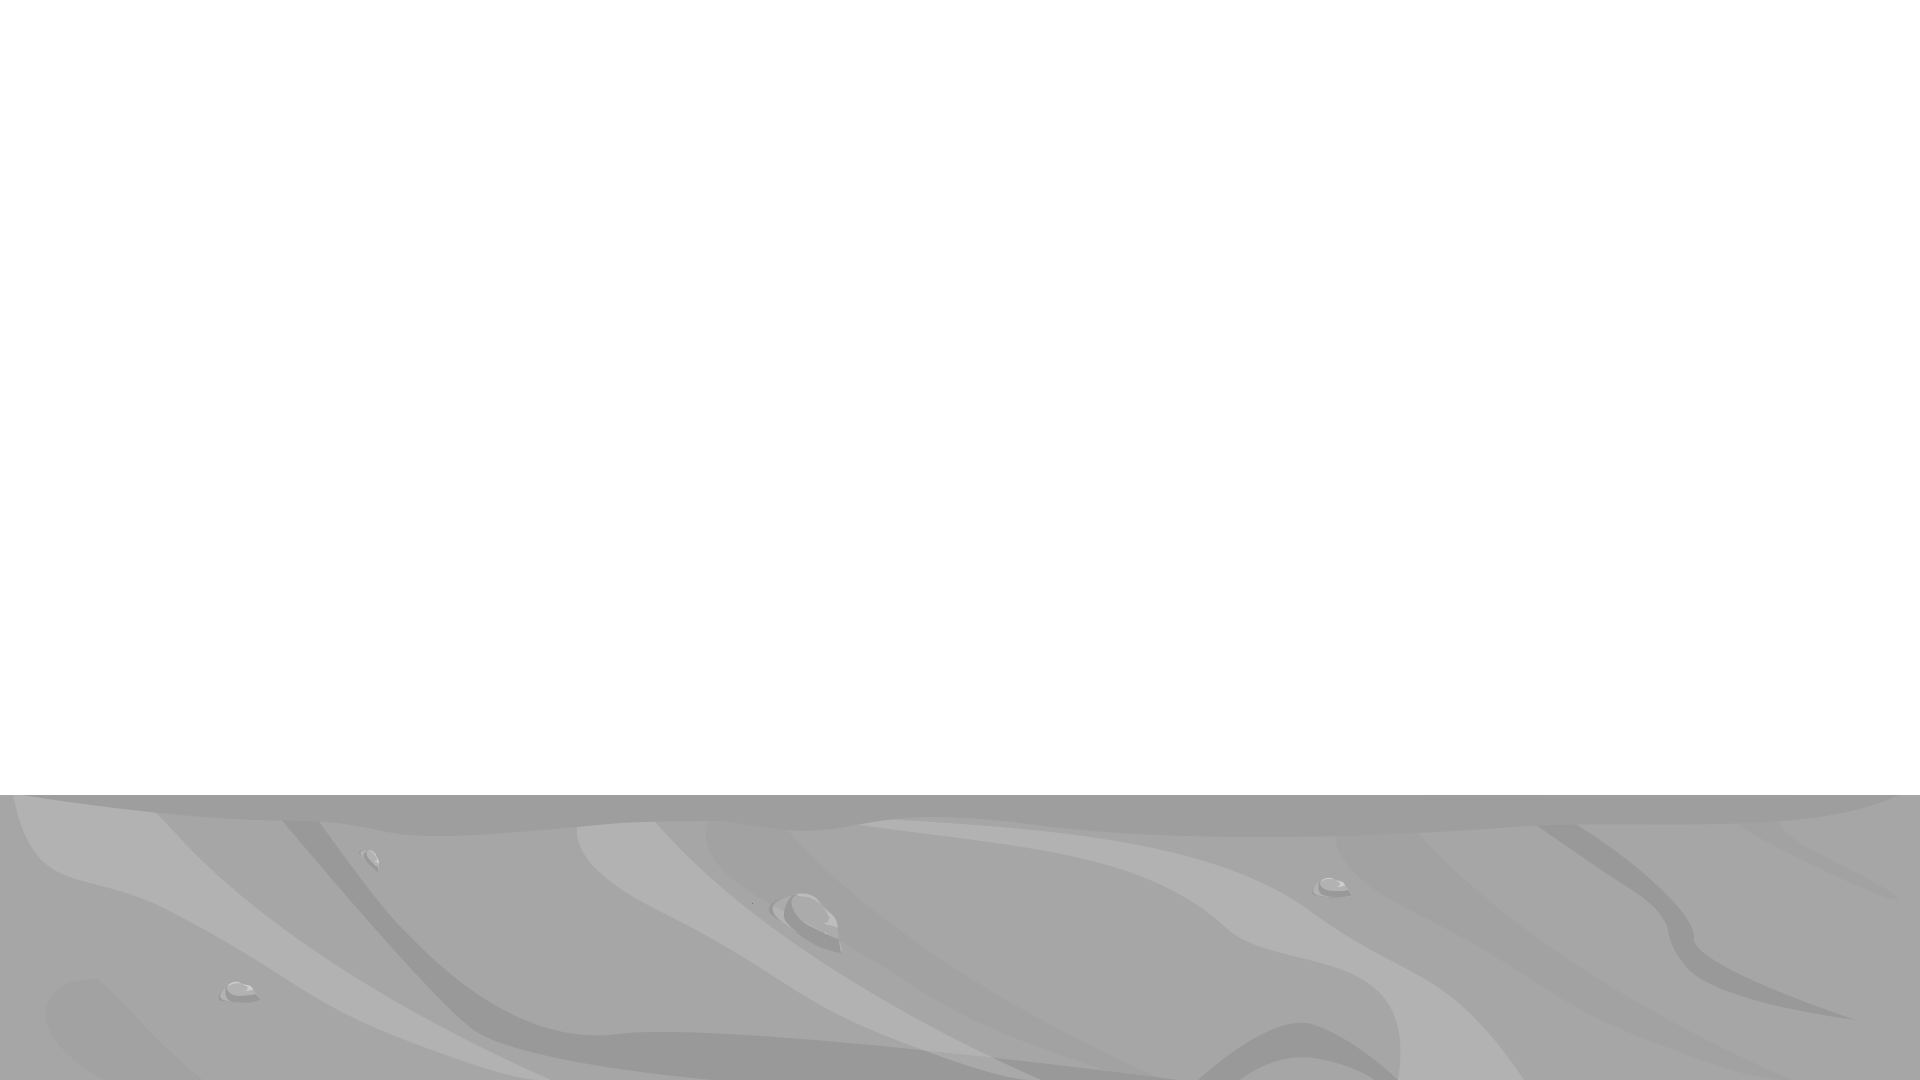
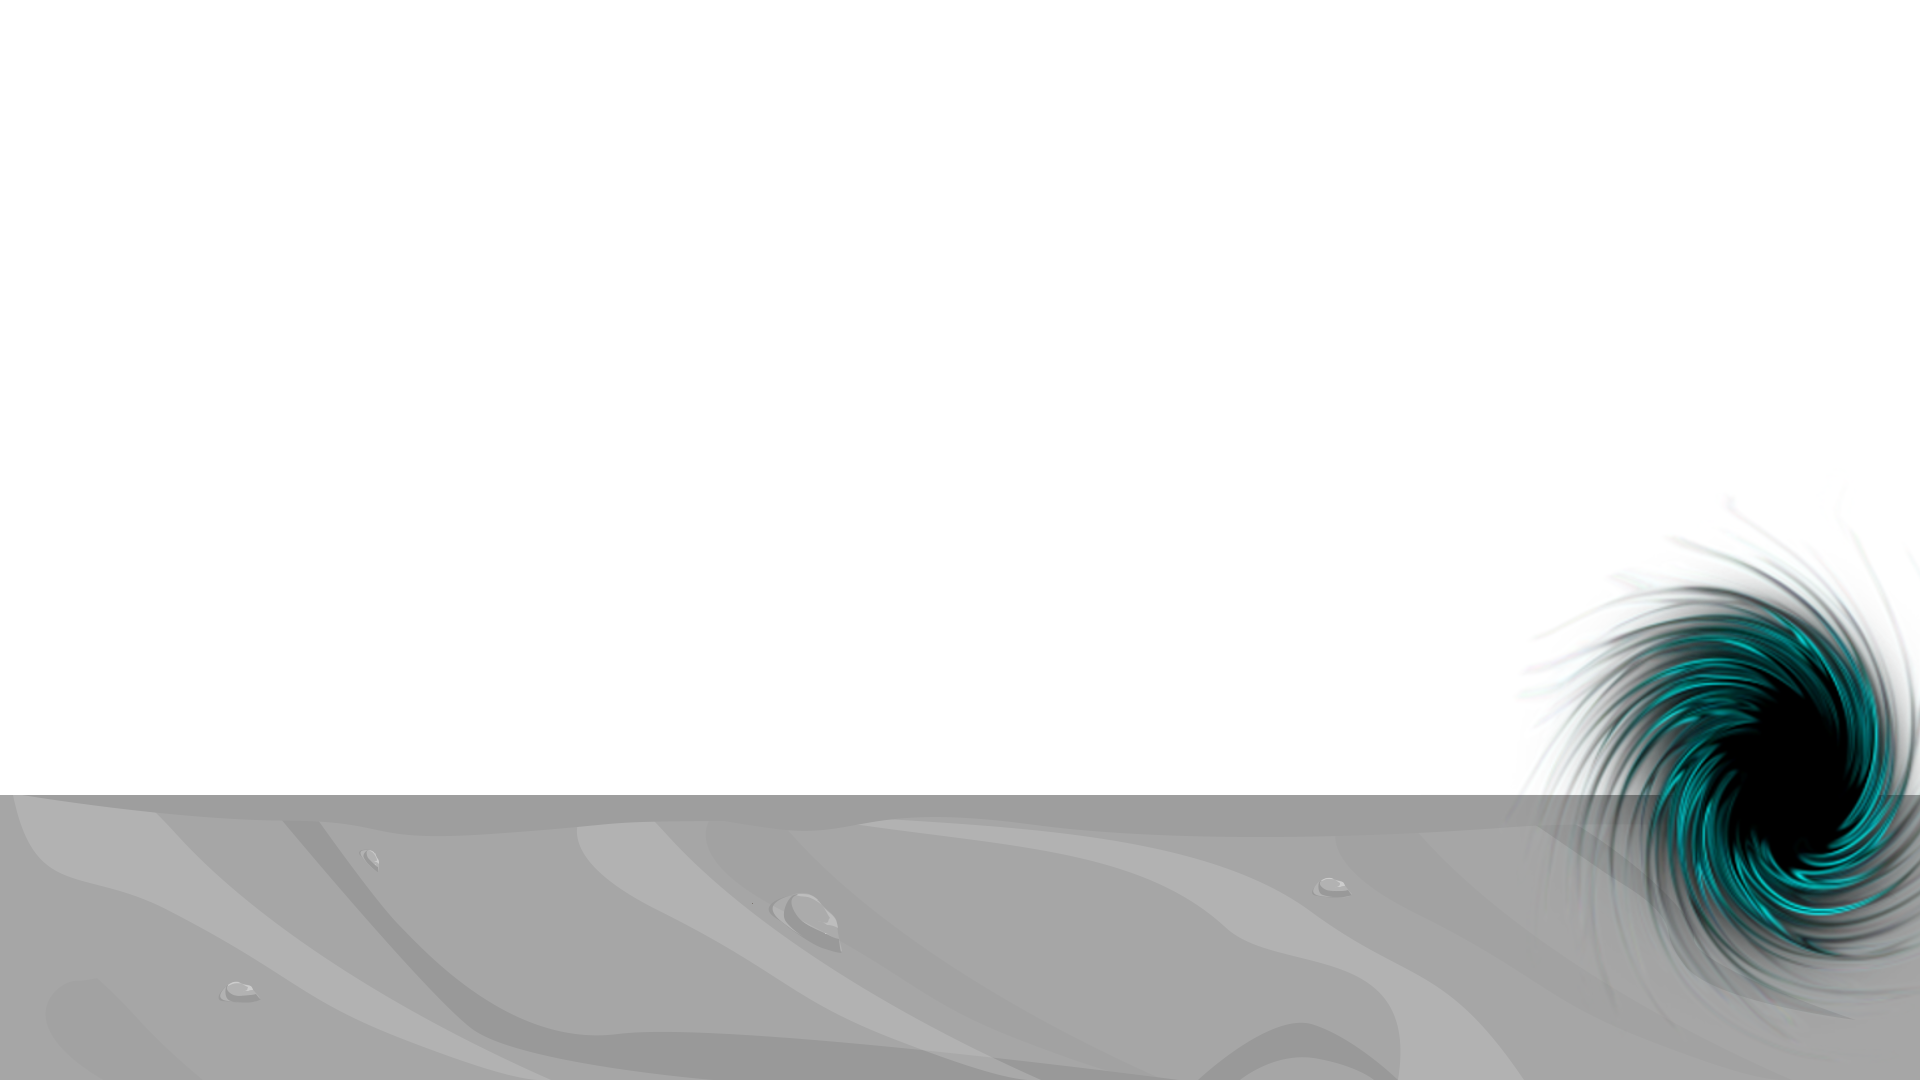
Added warp gate and firing mechanic
Left to do:
1) obstacles in level 1 to avoid
2) Final screen battle mechanics

Changed region(s): [[0.8125, 0.5194, 1.0, 0.9167]]

diff --git a/js/play1.js b/js/play1.js
@@ -55,13 +55,14 @@ var play1State = {
         // Our animations, run(true = looped), jump and idle are runOnce (false).
         this.player.animations.add('fire', Phaser.Animation.generateFrameNames('green_fire_', 1, 11), 12, false); 
         this.player.animations.add('attack', Phaser.Animation.generateFrameNames('green_attack_', 1, 4), 12, false); 
-        this.player.animations.add('jump', ['green_jump_1', 'green_jump_2', 'green_jump_3', 'green_jump_4', 'green_jump_4', 'green_jump_3'], 5, false);           
+        this.player.animations.add('jump', ['green_jump_1', 'green_jump_2', 'green_jump_3', 'green_jump_3', 'green_jump_4', 'green_jump_4', 'green_jump_4', 'green_jump_3'], 5, false);           
         this.player.animations.add('run', Phaser.Animation.generateFrameNames('green_run_', 1, 6), 10, true);
         this.player.animations.add('idle', Phaser.Animation.generateFrameNames('green_idle_', 1, 3), 10, false);
         
         // Kane's animations
-        this.kane.animations.add('jump2', Phaser.Animation.generateFrameNames('kane_jump_', 1, 4), 5, false); 
-        this.kane.animations.add('jump', ['kane_jump_1', 'kane_jump_2', 'kane_jump_3', 'kane_jump_4', 'kane_jump_4', 'kane_jump_3'], 5, false);           
+        this.kane.animations.add('fire', Phaser.Animation.generateFrameNames('kane_fire_', 1, 11), 12, false); 
+        this.kane.animations.add('attack', Phaser.Animation.generateFrameNames('kane_attack_', 1, 4), 12, false); 
+        this.kane.animations.add('jump', ['kane_jump_1', 'kane_jump_2', 'kane_jump_3', 'kane_jump_3', 'kane_jump_4', 'kane_jump_4', 'kane_jump_4', 'kane_jump_3'], 5, false);           
         this.kane.animations.add('run', Phaser.Animation.generateFrameNames('kane_run_', 1, 6), 10, true);
         this.kane.animations.add('idle', Phaser.Animation.generateFrameNames('kane_idle_', 1, 3), 10, false);
                 
@@ -90,21 +91,13 @@ var play1State = {
         {
             //	start a fire
             this.fire = 60;
-            this.player.animations.play('attack');
+            this.player.animations.play('fire');
         }
         else if (cursors.left.isDown)
         {
-            //	Move to the left
-            this.player.scale.setTo(-.5,.5);
-            this.player.body.velocity.x = -100;
-            this.player.animations.play('run');
-        }
-        else if (cursors.right.isDown)
-        {
-            //	Move to the right
-            this.player.scale.setTo(.5,.5);
-            this.player.body.velocity.x = 100;
-            this.player.animations.play('run');
+            //	start a fire
+            this.fire = 60;
+            this.kane.animations.play('fire');
         }
         else
         {

diff --git a/js/play.js b/js/play.js
@@ -39,7 +39,7 @@ var playState = {
         this.ground.body.immovable = true;
        
         // create the player sprite and enable physics
-        this.player = game.add.sprite(16, 316, 'player');
+        this.player = game.add.sprite(16, -220, 'player');
         game.physics.enable(this.player, Phaser.Physics.ARCADE);
         // Player physics properties. Give KALE a slight bounce.
         this.player.body.bounce.y = 0.2;
@@ -54,7 +54,7 @@ var playState = {
         
         // Our animations, run(true = looped), jump and idle are runOnce (false).
         this.player.animations.add('jump2', Phaser.Animation.generateFrameNames('green_jump_', 1, 4), 5, false); 
-        this.player.animations.add('jump', ['green_jump_1', 'green_jump_2', 'green_jump_3', 'green_jump_3', 'green_jump_4', 'green_jump_4', 'green_jump_4', 'green_jump_4', 'green_jump_3'], 5, false);           
+        this.player.animations.add('jump', ['green_jump_1', 'green_jump_2', 'green_jump_3', 'green_jump_3', 'green_jump_4', 'green_jump_4', 'green_jump_4', 'green_jump_3'], 5, false);           
         this.player.animations.add('run', Phaser.Animation.generateFrameNames('green_run_', 1, 6), 10, true);
         this.player.animations.add('idle', Phaser.Animation.generateFrameNames('green_idle_', 1, 3), 10, false);
         
@@ -116,13 +116,13 @@ var playState = {
     
         // function to give life to menu screen
     scrollBackground: function() {
-            this.back7.tilePosition.x -= .05/100 * this.player.body.velocity.x;
-            this.back6.tilePosition.x -= .1/100 * this.player.body.velocity.x;
-            this.back5.tilePosition.x -= .3/100 * this.player.body.velocity.x;
-            this.back4.tilePosition.x -= .75/100 * this.player.body.velocity.x;
-            this.back3.tilePosition.x -= 1/100 * this.player.body.velocity.x;
-            this.back2.tilePosition.x -= 2/100 * this.player.body.velocity.x;
-            this.back1.tilePosition.x -= 4/100 * this.player.body.velocity.x;    
+            this.back7.tilePosition.x -= .1/100 * this.player.body.velocity.x;
+            this.back6.tilePosition.x -= .3/100 * this.player.body.velocity.x;
+            this.back5.tilePosition.x -= .75/100 * this.player.body.velocity.x;
+            this.back4.tilePosition.x -= 1/100 * this.player.body.velocity.x;
+            this.back3.tilePosition.x -= 1.5/100 * this.player.body.velocity.x;
+            this.back2.tilePosition.x -= 2.5/100 * this.player.body.velocity.x;
+            this.back1.tilePosition.x -= 8/100 * this.player.body.velocity.x;    
     },
     
     win: function() {
